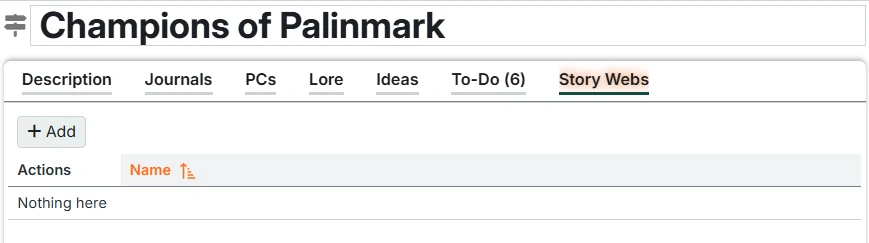
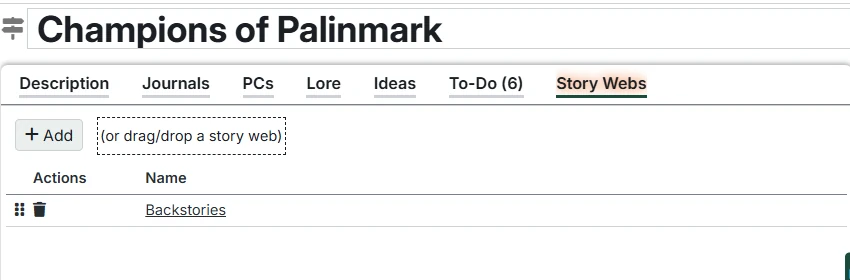
doc update

diff --git a/docs/reference/campaign-mgt/content/arc/vignettes.md b/docs/reference/campaign-mgt/content/arc/vignettes.md
@@ -9,11 +9,18 @@ next:
 ---
 
 # Arc Vignettes Tab
+![Arc Vignettes Tab](/assets/images/arc-vignette-tab.webp)
 
 The Vignettes tab lets you track vignette ideas at the Arc level (equivalent to [Session Vignettes](/reference/campaign-mgt/content/session/vignettes), but for longer-term planning).  This lets you (for example) plan ahead for several sessions by adding your Vignettes to the Arc, and then push them to the next session with one click when it's time to use them.
 
 ## Adding Vignettes
 Click "Add Vignette" to create a new vignette entry. Enter the text and hit "Enter" to save.
+
+## The Vignette list
+This list contains the individual vignettes. For each vignette, you can see its text.
+
+### Moveable
+You can reorder the vignette list by dragging the handle on the left side of each row to move rows up and down.
 
 ## Vignette Actions
 The actions column supports:

diff --git a/docs/reference/campaign-mgt/content/arc/storywebs.md b/docs/reference/campaign-mgt/content/arc/storywebs.md
@@ -7,7 +7,7 @@ next:
   text: 'Arc Manager'
   link: '/reference/campaign-mgt/content/arc/manager'
 ---
-# Story Webs Tab
+# Arc Story Webs Tab
 ![Arc Story Webs Tab](/assets/images/arc-storywebs-tab.webp)
 
 The Story Webs tab allows you to associate [^Story Webs] with a specific Arc to make them easier to manage.  The entire list of Story Webs can be found in the Story Webs folder on the Campaign in the Campaign Directory.
@@ -26,6 +26,9 @@ You can also drag/drop a Story Web from the Campaign Directory.
 This list contains the selected Story Webs.  
 
 Click the name of a Story Web to open it (hold Control to open in a new tab).
+
+### Moveable
+You can reorder the story web list by dragging the handle on the left side of each row to move rows up and down.
 
 ### Story Web Actions
 The actions column lets you manage the Story Web entries:

diff --git a/docs/reference/campaign-mgt/content/session/npcs.md b/docs/reference/campaign-mgt/content/session/npcs.md
@@ -24,6 +24,8 @@ Click the name of the NPC to open the [Character details](/reference/world-build
 
 Click on the notes field to edit it.  Press Enter to save or Escape to cancel. Shift-Enter within the text box to insert a new line.
 
+### Moveable
+You can reorder the NPC list by dragging the handle on the left side of each row to move rows up and down.
 
 > [!TIP]
 > When your players encounter an NPC, click on it to open up the details page, where you can get information for describing it.  From there, you can then use the [Actors tab](/reference/world-building/content/character/#actors) to immediately find an associated actors and open their character sheets or drag them right onto the scene in Foundry.

diff --git a/docs/reference/campaign-mgt/content/session/locations.md b/docs/reference/campaign-mgt/content/session/locations.md
@@ -24,6 +24,9 @@ Click the name of the Location or parent to open the [Location details](/referen
 
 Click on the notes field to edit it.  Press Enter to save or Escape to cancel. Shift-Enter within the text box to insert a new line.
 
+### Moveable
+You can reorder the location list by dragging the handle on the left side of each row to move rows up and down.
+
 > [!TIP]
 > When your players come to a Location, click on it to open up the details page, where you can get information for describing it.  From there, you can then use the [Scenes tab](/reference/world-building/content/location/#scenes) to immediately open a related scene in Foundry.
 >

diff --git a/docs/reference/campaign-mgt/content/arc/locations.md b/docs/reference/campaign-mgt/content/arc/locations.md
@@ -27,6 +27,9 @@ Click the name of the Location or parent to open the [Location details](/referen
 
 You can also add notes to each Location to track how it will be used in the Arc.  Double click the notes field for a row or click the "Edit" icon to open the row editor.
 
+### Moveable
+You can reorder the location list by dragging the handle on the left side of each row to move rows up and down.
+
 ### Location actions
 The actions column lets you take several actions with the Location entries:
   - **Delete** - Delete the Location.  This removes it from the Arc list, but DOES NOT delete the Location from the [^Setting].

diff --git a/docs/reference/campaign-mgt/content/arc/participants.md b/docs/reference/campaign-mgt/content/arc/participants.md
@@ -29,6 +29,9 @@ Click the name of the Entry to open the details page.  Hold control to open in a
 
 You can also add notes to each Entry to track how it will be used in the Arc.  Double click the notes field for a row or click the "Edit" icon to open the row editor.
 
+### Moveable
+You can reorder the participant list by dragging the handle on the left side of each row to move rows up and down.
+
 ### Participant actions
 The actions column lets you take several actions with the Location entries:
   - **Delete** - Delete the Entry.  This removes it from the Arc list, but DOES NOT delete the Entry from the [^Setting].

diff --git a/docs/reference/campaign-mgt/content/arc/monsters.md b/docs/reference/campaign-mgt/content/arc/monsters.md
@@ -30,6 +30,9 @@ Click the name of the Monster to open the (system-dependent) stat/character shee
 
 You can also add notes to each Monster to track how it will be used in the Arc.  Double click the notes field for a row or click the "Edit" icon to open the row editor.
 
+### Moveable
+You can reorder the monster list by dragging the handle on the left side of each row to move rows up and down.
+
 ### Monster actions
 The actions column lets you take several actions with the Monster entries:
   - **Delete** - Delete the Monster.  This removes it from the Arc list, but DOES NOT delete the Actor from Foundry.

diff --git a/docs/reference/campaign-mgt/content/session/magic-items.md b/docs/reference/campaign-mgt/content/session/magic-items.md
@@ -30,6 +30,9 @@ Click the name of the Magic Item to open the (system-dependent) item description
 
 Click on the notes field to edit it.  Press Enter to save or Escape to cancel. Shift-Enter within the text box to insert a new line.
 
+### Moveable
+You can reorder the magic item list by dragging the handle on the left side of each row to move rows up and down.
+
 ### Magic Item Actions
 The actions column lets you take several actions with the Magic Item entries:
   - **Delete** - Delete the Magic Item.  This removes it from the Session list, but DOES NOT delete the Item from Foundry.

diff --git a/docs/reference/campaign-mgt/content/session/monsters.md b/docs/reference/campaign-mgt/content/session/monsters.md
@@ -34,6 +34,9 @@ Click on a value in the number column to edit it.  Press Enter to save.
 
 Click on the notes field to edit it.  Press Enter to save or Escape to cancel. Shift-Enter within the text box to insert a new line.
 
+### Moveable
+You can reorder the monster list by dragging the handle on the left side of each row to move rows up and down.
+
 ### Monster Actions
 The actions column lets you take several actions with the Monster entries:
   - **Delete** - Delete the Monster.  This removes it from the Session list, but DOES NOT delete the Actor from Foundry.

diff --git a/docs/reference/campaign-mgt/content/campaign/storywebs.md b/docs/reference/campaign-mgt/content/campaign/storywebs.md
@@ -30,6 +30,9 @@ This list contains the selected Story Webs.
 
 Click the name of a Story Web to open it (hold Control to open in a new tab).
 
+### Moveable
+You can reorder the story web list by dragging the handle on the left side of each row to move rows up and down.
+
 ### Story Web Actions
 The actions column lets you manage the Story Web entries:
   - **Delete** - Delete the Story Web.  This removes it from the Campaign list, but DOES NOT delete the Story Web itself - it remains in the Campaign Directory for future use.

diff --git a/docs/reference/campaign-mgt/content/session/storywebs.md b/docs/reference/campaign-mgt/content/session/storywebs.md
@@ -27,6 +27,9 @@ This list contains the selected Story Webs.
 
 Click the name of a Story Web to open it (hold Control to open in a new tab).
 
+### Moveable
+You can reorder the story web list by dragging the handle on the left side of each row to move rows up and down.
+
 ### Story Web Actions
 The actions column lets you manage the Story Web entries:
   - **Delete** - Delete the Story Web.  This removes it from the Session list, but DOES NOT delete the Story Web itself - it remains in the Campaign Directory for future use.

diff --git a/docs/reference/campaign-mgt/content/session/vignettes.md b/docs/reference/campaign-mgt/content/session/vignettes.md
@@ -20,6 +20,9 @@ Click "Add Vignette" to create a new Vignette entry.  Enter the text of the Vign
 ## The Vignette list
 This list contains the individual Vignettes. For each Vignette, you can see its text.
 
+### Moveable
+You can reorder the vignette list by dragging the handle on the left side of each row to move rows up and down.
+
 ### Vignette Actions
 The actions column lets you take several actions with the Vignette entries:
   - **Delete** - Delete the Vignette
